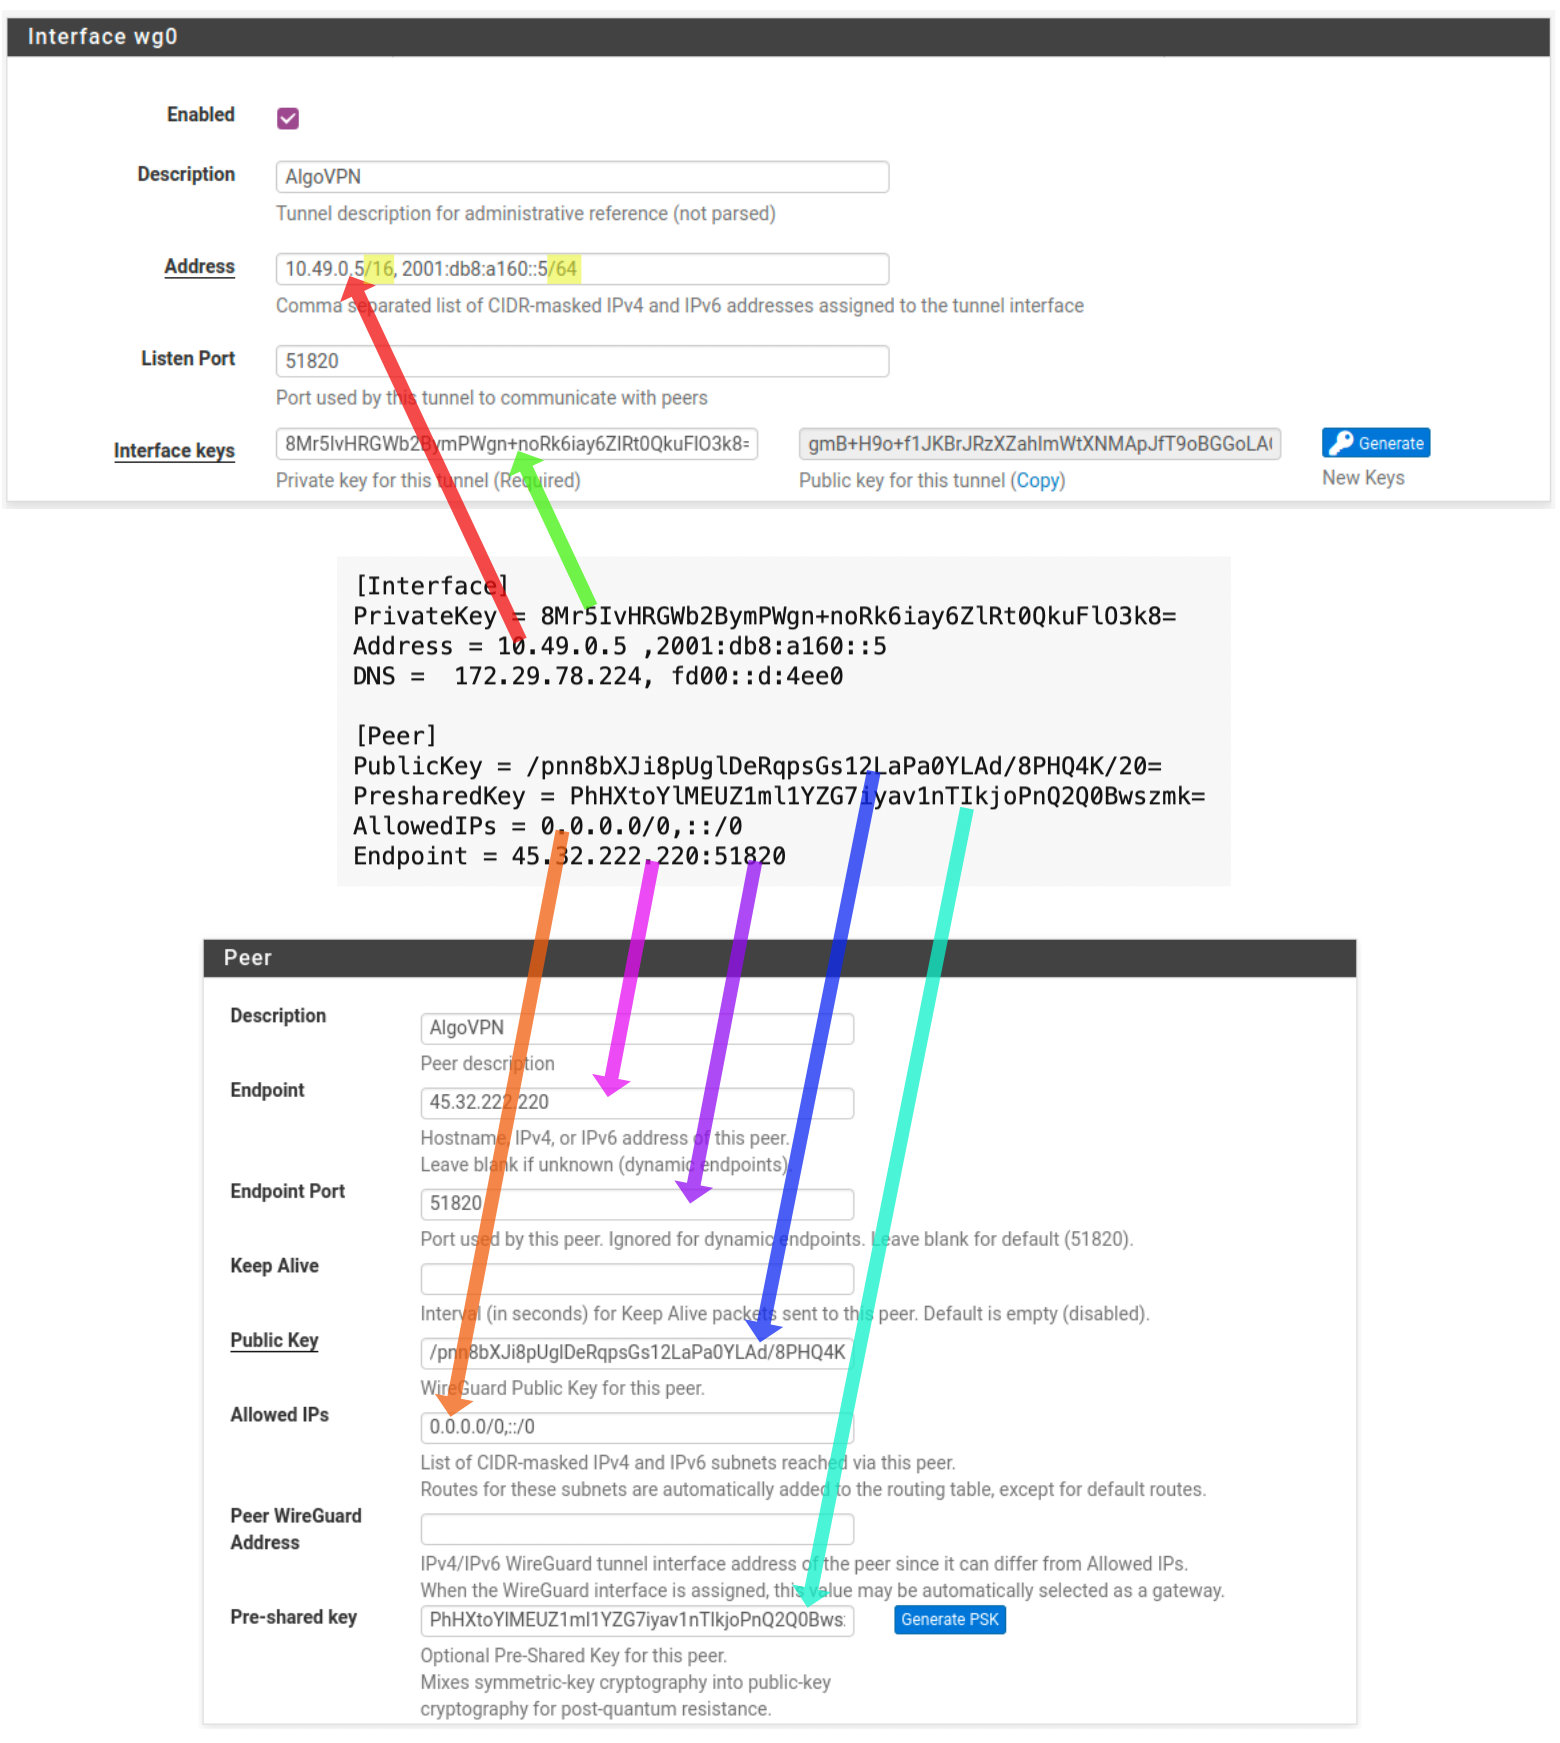
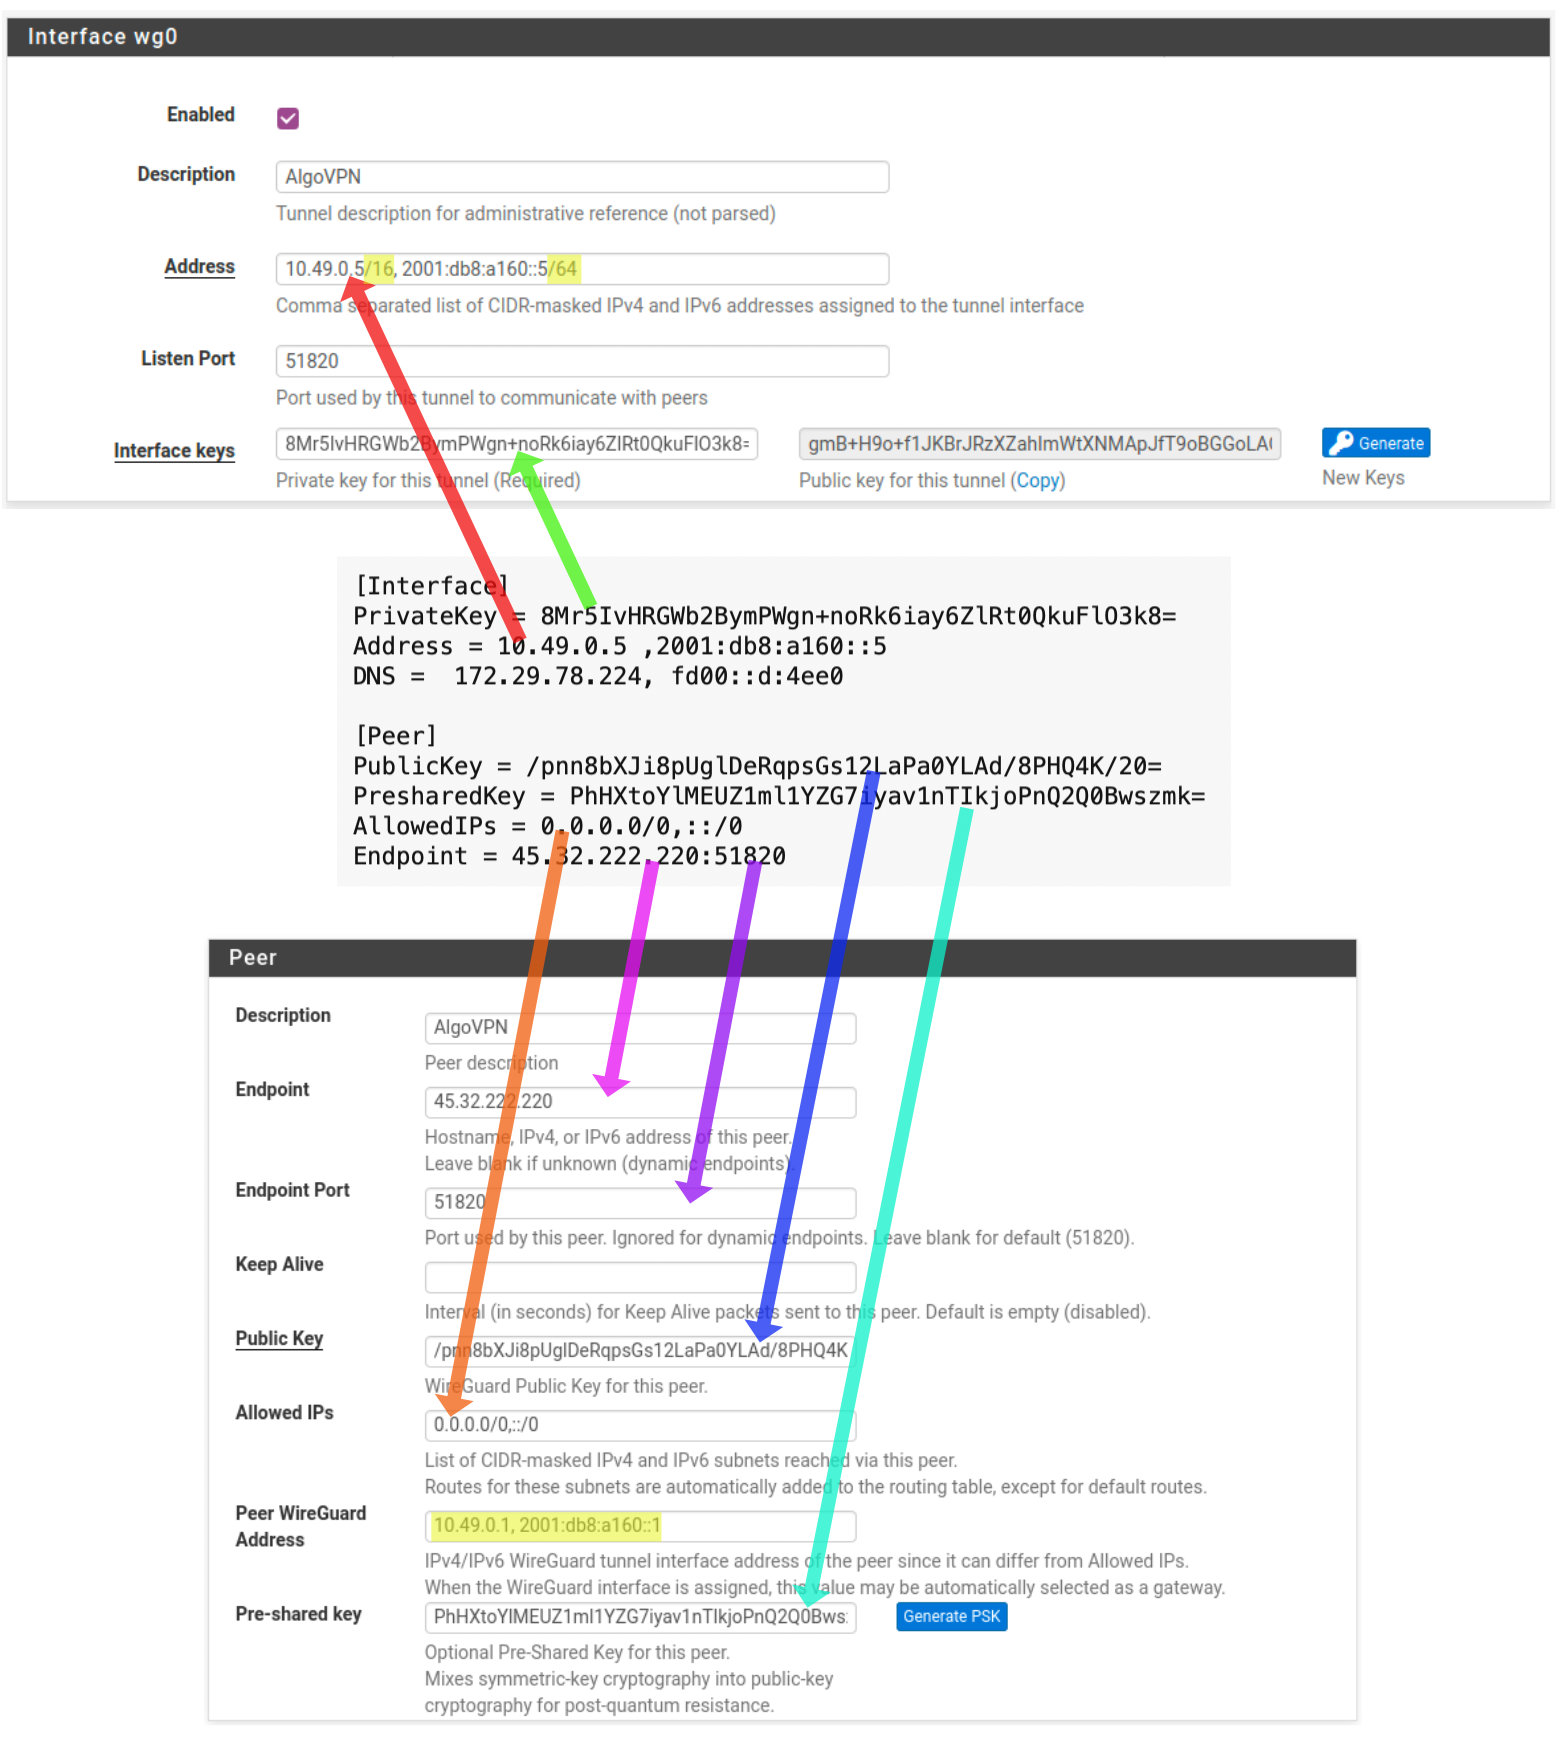
Change gateway monitoring steps

diff --git a/wireguard.md b/wireguard.md
@@ -16,7 +16,7 @@
 
 * Locate the WireGuard configuration file for the user `router` in `configs/<ip_addr>/wireguard/router.conf`.
 
-* Create a new [WireGuard Tunnel](https://docs.netgate.com/pfsense/en/latest/vpn/wireguard/settings.html#wireguard-tunnel-settings) and add a [WireGuard Peer](https://docs.netgate.com/pfsense/en/latest/vpn/wireguard/settings.html#wireguard-peer-settings) in pfSense using the information from the configuration file. Note that you need to add CIDR suffixes to the network addresses for the tunnel.
+* Create a new [WireGuard Tunnel](https://docs.netgate.com/pfsense/en/latest/vpn/wireguard/settings.html#wireguard-tunnel-settings) and add a [WireGuard Peer](https://docs.netgate.com/pfsense/en/latest/vpn/wireguard/settings.html#wireguard-peer-settings) in pfSense using the information from the configuration file. Note that you need to add CIDR suffixes to the network addresses for the tunnel. In the field **Peer WireGuard Address** enter `10.49.0.1, 2001:db8:a160::1`, the addresses to be used for gateway monitoring.
 
 ![](images/wg-tunnel.jpg)
 
@@ -25,10 +25,6 @@
     > Before assigning the interface, make sure default gateway for the firewall is not set to Automatic or the firewall may end up using the `wg` interface as the default gateway, which is unlikely to be the desired outcome.
 
 ![](images/wg-interface.jpg)
-
-* Once the interface has been assigned gateways will be created and gateway monitoring will be enabled. The monitor IP addresses should be set to the AlgoVPN side of the WireGuard tunnel, `10.49.0.1` and `2001:db8:a160::1`. You can change the **Monitor IP** in [Gateway Settings](https://docs.netgate.com/pfsense/en/latest/routing/gateway-configure.html) if required.
-
-![](images/wg-gateways.jpg)
 
 * Create [Outbound NAT](https://docs.netgate.com/pfsense/en/latest/nat/outbound.html) rules for both IPv4 and IPv6. You will need to switch from **Automatic Outbound NAT** to **Hybrid Outbound NAT**. Each rule should map a LAN network address to the WireGuard interface address.
 
